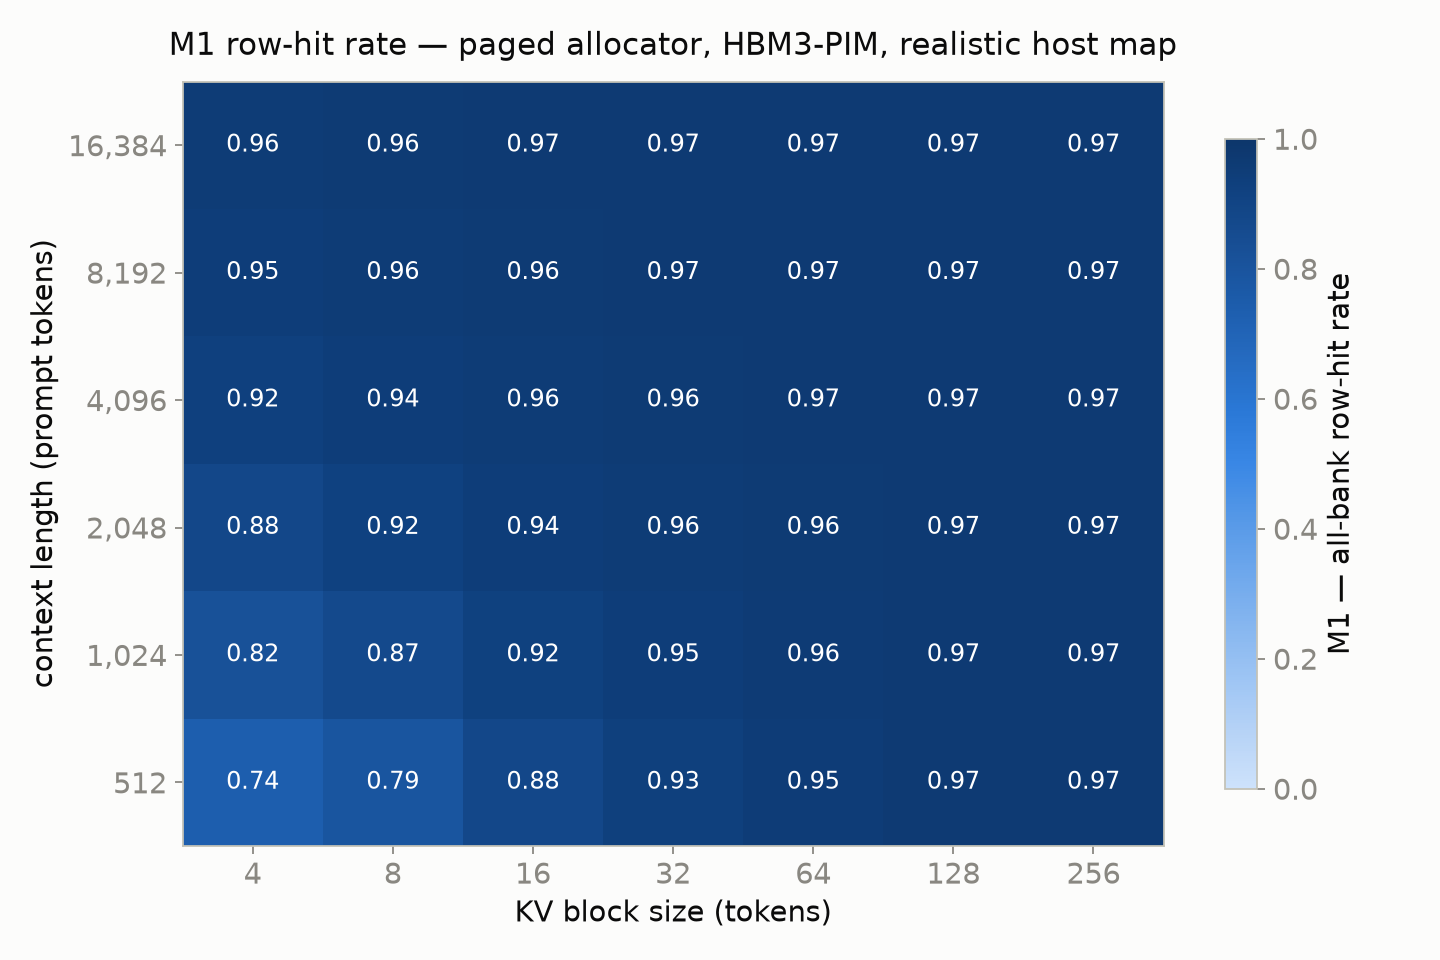
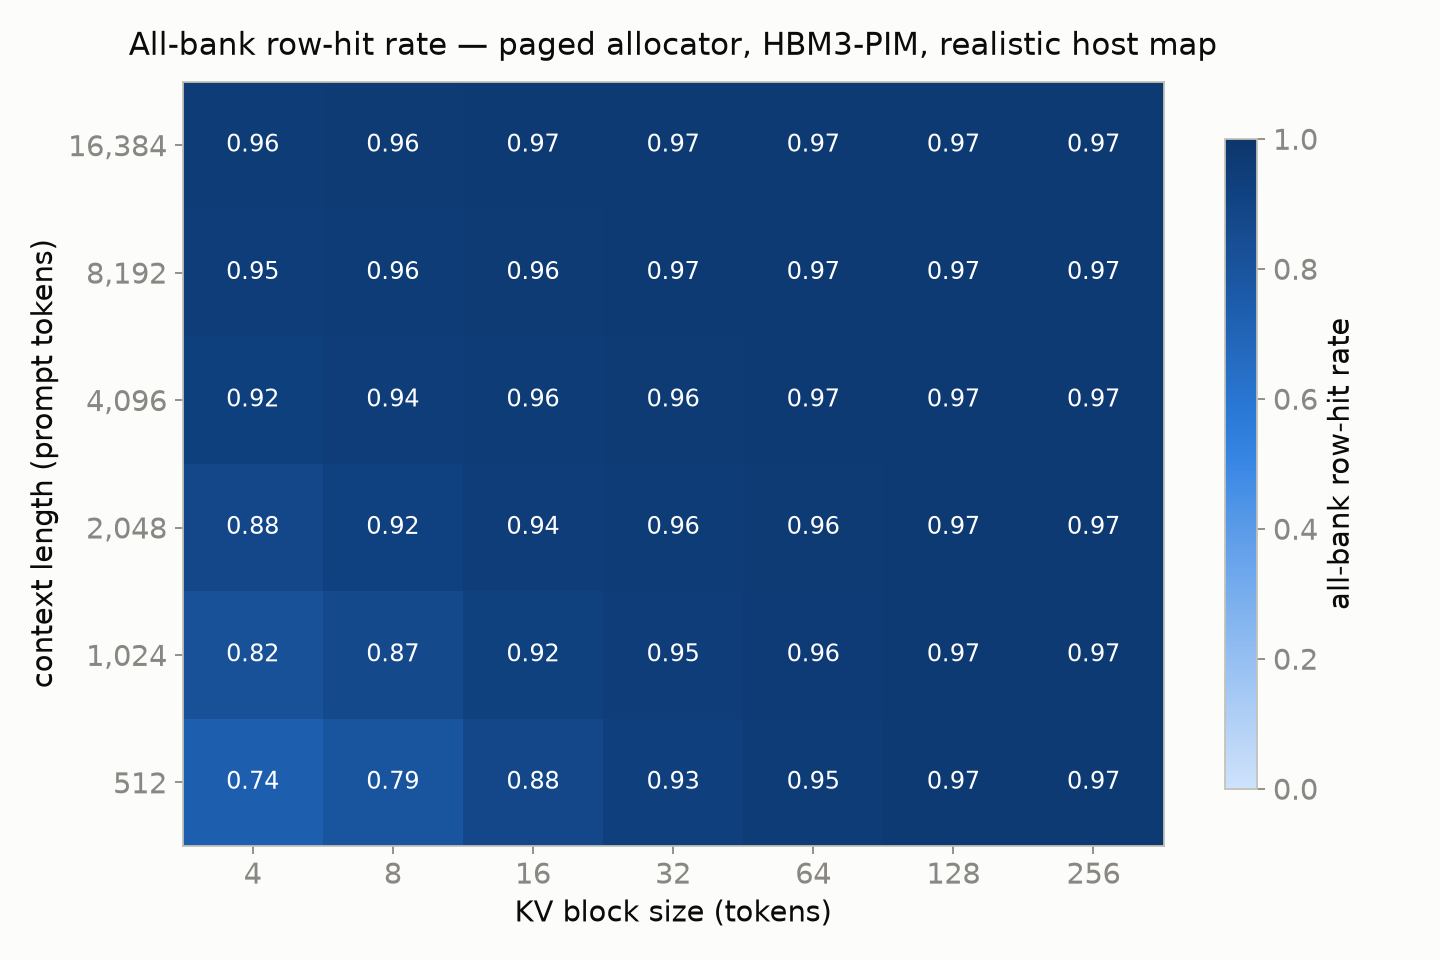
figures: plain metric names, relabel the contiguous allocator
Axis labels and titles now name the rates directly ("all-bank row-hit
rate", "effective PIM bandwidth") instead of M1/M3; with no M2 on any
figure the numbering only invited "where is M2?".

"contiguous (oracle)" becomes "contiguous (knows lengths)". It is an
oracle for final sequence lengths, not for placement, and it pays the
same row-miss model as every allocator; it trails PIM-aware because a
span starting at an arbitrary free address straddles region boundaries.

Validation scatter legend moved to the empty upper-left corner so the
longer label clears the paged samples. All seven figures regenerated
from the committed summaries; no data changed.

Changed region(s): [[0.0938, 0.0312, 0.8438, 0.0625], [0.9062, 0.2812, 0.9375, 0.6875]]

diff --git a/pimkv/plots.py b/pimkv/plots.py
@@ -35,7 +35,7 @@ ALLOC_COLOR = {          # fixed categorical slot order — never re-assigned
     "contiguous": "#1baf7a",
 }
 ALLOC_LABEL = {"paged": "paged (vLLM port)", "pim-aware": "PIM-aware",
-               "contiguous": "contiguous (oracle)"}
+               "contiguous": "contiguous (knows lengths)"}
 WL_STYLE = {"steady": "-", "spec": "--"}
 
 plt.rcParams.update({
@@ -91,8 +91,8 @@ def headline(summary_csv: Path, out_path: Path) -> None:
                        label=f"{wl} workload") for wl in ("steady", "spec")]
     ax1.legend(handles=handles, loc="center right", fontsize=11,
                framealpha=0.9)
-    ax1.set_ylabel("M1 — all-bank row-hit rate")
-    ax2.set_ylabel("M3 — effective PIM bandwidth (GB/s)")
+    ax1.set_ylabel("all-bank row-hit rate")
+    ax2.set_ylabel("effective PIM bandwidth (GB/s)")
     ax2.set_xlabel("KV block size (tokens)")
     ax2.set_ylim(bottom=0)
     ax1.set_title("Paged for capacity, punished by rows — "
@@ -131,7 +131,7 @@ def bandwidth(summary_csv: Path, out_path: Path, ideal_gbps: float) -> None:
                 (len(wls) - 0.55, ideal_gbps), va="bottom", ha="right",
                 fontsize=11, color=MUTED)
     ax.set_xticks(x, wls)
-    ax.set_ylabel("M3 — effective PIM bandwidth (GB/s)")
+    ax.set_ylabel("effective PIM bandwidth (GB/s)")
     ax.set_ylim(0, ideal_gbps * 1.08)
     ax.set_title("Effective PIM bandwidth by workload\n"
                  "16-token blocks, HBM3-PIM, realistic host map",
@@ -177,10 +177,10 @@ def heatmap(summary_csv: Path, out_path: Path) -> None:
     ax.set_yticks(range(len(pls)), [f"{int(p):,}" for p in pls])
     ax.set_xlabel("KV block size (tokens)")
     ax.set_ylabel("context length (prompt tokens)")
-    ax.set_title("M1 row-hit rate — paged allocator, HBM3-PIM, "
+    ax.set_title("All-bank row-hit rate — paged allocator, HBM3-PIM, "
                  "realistic host map", color=INK, fontsize=14, pad=12)
     cb = fig.colorbar(im, ax=ax, shrink=0.85)
-    cb.set_label("M1 — all-bank row-hit rate")
+    cb.set_label("all-bank row-hit rate")
     fig.tight_layout()
     out_path.parent.mkdir(parents=True, exist_ok=True)
     fig.savefig(out_path, dpi=160)
@@ -193,7 +193,7 @@ def m1_hist(csv_path: Path, out_path: Path) -> None:
     fig, ax = plt.subplots(figsize=(7, 4.5))
     _style_axis(ax)
     ax.hist(df.m1, bins=50, color="#2a78d6", edgecolor=SURFACE, zorder=3)
-    ax.set_xlabel("M1 — all-bank row-hit rate", fontsize=14)
+    ax.set_xlabel("all-bank row-hit rate", fontsize=14)
     ax.set_ylabel("sampled decode steps", fontsize=14)
     ax.set_xlim(0, 1)
     ax.axvline(df.m1.mean(), color="#eb6834", lw=2,
@@ -232,7 +232,7 @@ def kvheads(summary_csv: Path, out_path: Path) -> None:
              / df[(df.model == m) & (df.allocator == "paged")].m3_gbps_mean.mean())
         labels.append(f"{lbl}\nPIM-aware gains {r:.1f}×")
     ax.set_xticks(x, labels)
-    ax.set_ylabel("M1 — all-bank row-hit rate")
+    ax.set_ylabel("all-bank row-hit rate")
     ax.set_ylim(0, 1.06)
     ax.set_yticks([0, 0.2, 0.4, 0.6, 0.8, 1.0])
     ax.set_title("The penalty grows as models shed KV heads — 16-token blocks",
@@ -276,7 +276,7 @@ def validation(ram_csv: Path, attacc_csv: Path, out_path: Path) -> None:
     d = (r.m1 - r.ram_hit_frac).abs()
     ax1.set_xlim(lo, hi); ax1.set_ylim(lo, hi)
     ax1.set_aspect("equal", adjustable="box")
-    ax1.set_xlabel("our analytical model — M1")
+    ax1.set_xlabel("our analytical model — row-hit rate")
     ax1.set_ylabel("stock Ramulator 2 — measured row-hit fraction")
     # every number lives in the title; nothing is drawn inside the axes
     ax1.set_title("Placement: the model agrees\n"
@@ -286,7 +286,7 @@ def validation(ram_csv: Path, attacc_csv: Path, out_path: Path) -> None:
     handles, labels = ax1.get_legend_handles_labels()
     handles.append(Line2D([], [], ls="--", lw=1.4, color=MUTED))
     labels.append("perfect agreement")
-    ax1.legend(handles, labels, fontsize=10, framealpha=0.92, loc="lower right")
+    ax1.legend(handles, labels, fontsize=10, framealpha=0.92, loc="upper left")
 
     # -- right: claimed speedup vs measured speedup ---------------------
     base = a[a.allocator == "paged"].set_index("seq_id")
@@ -299,7 +299,7 @@ def validation(ram_csv: Path, attacc_csv: Path, out_path: Path) -> None:
     x = np.arange(len(tgt)); w = 0.34
     b1 = ax2.bar(x - w / 2, model, w * 0.94,
                  color=[ALLOC_COLOR[al] for al in tgt], edgecolor=SURFACE,
-                 linewidth=2, zorder=3, label="speedup we claim (our M3)")
+                 linewidth=2, zorder=3, label="speedup we claim (our model)")
     b2 = ax2.bar(x + w / 2, meas, w * 0.94,
                  color=[ALLOC_COLOR[al] for al in tgt], edgecolor=INK,
                  linewidth=1.2, hatch="//", alpha=0.55, zorder=3,
@@ -363,7 +363,7 @@ def pressure(d_csv: Path, specfix_csv: Path, out_path: Path) -> None:
     ax.annotate("pool = mean demand", (1.0, 0.71), fontsize=10, color=MUTED,
                 xytext=(6, 0), textcoords="offset points")
     ax.set_xlabel("KV pool size ÷ mean demand (headroom)")
-    ax.set_ylabel("M1 — all-bank row-hit rate")
+    ax.set_ylabel("all-bank row-hit rate")
     ax.set_ylim(0.7, 1.0)
     ax.set_xlim(0.55, 1.38)
     ax.set_title("Under real preemption, the benefit shrinks when the pool is "
